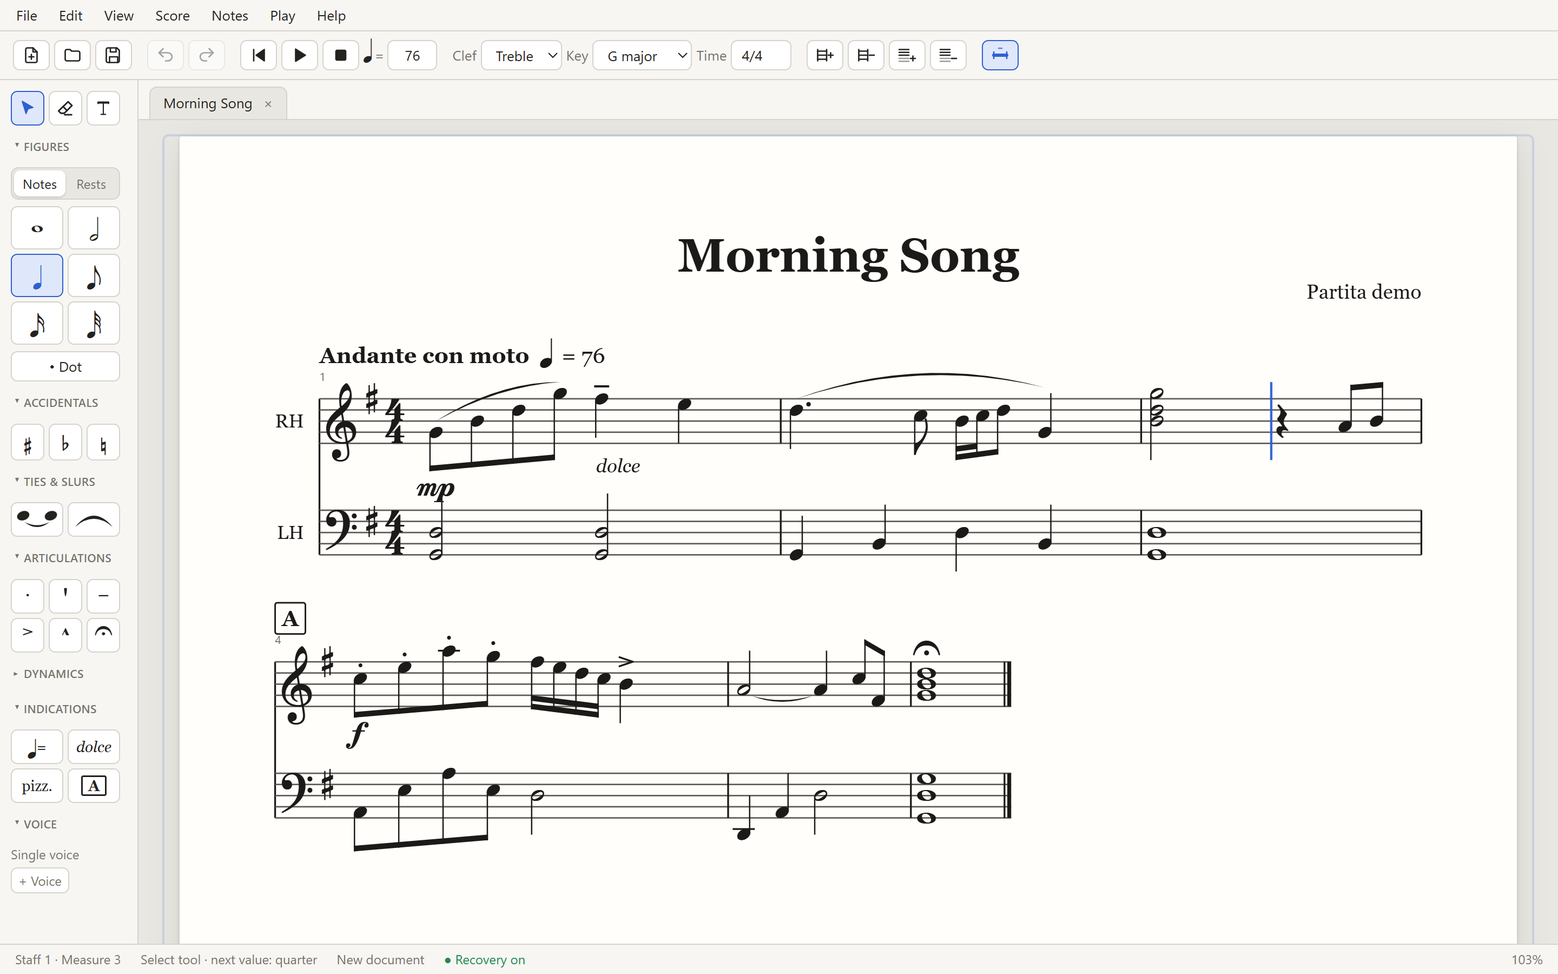
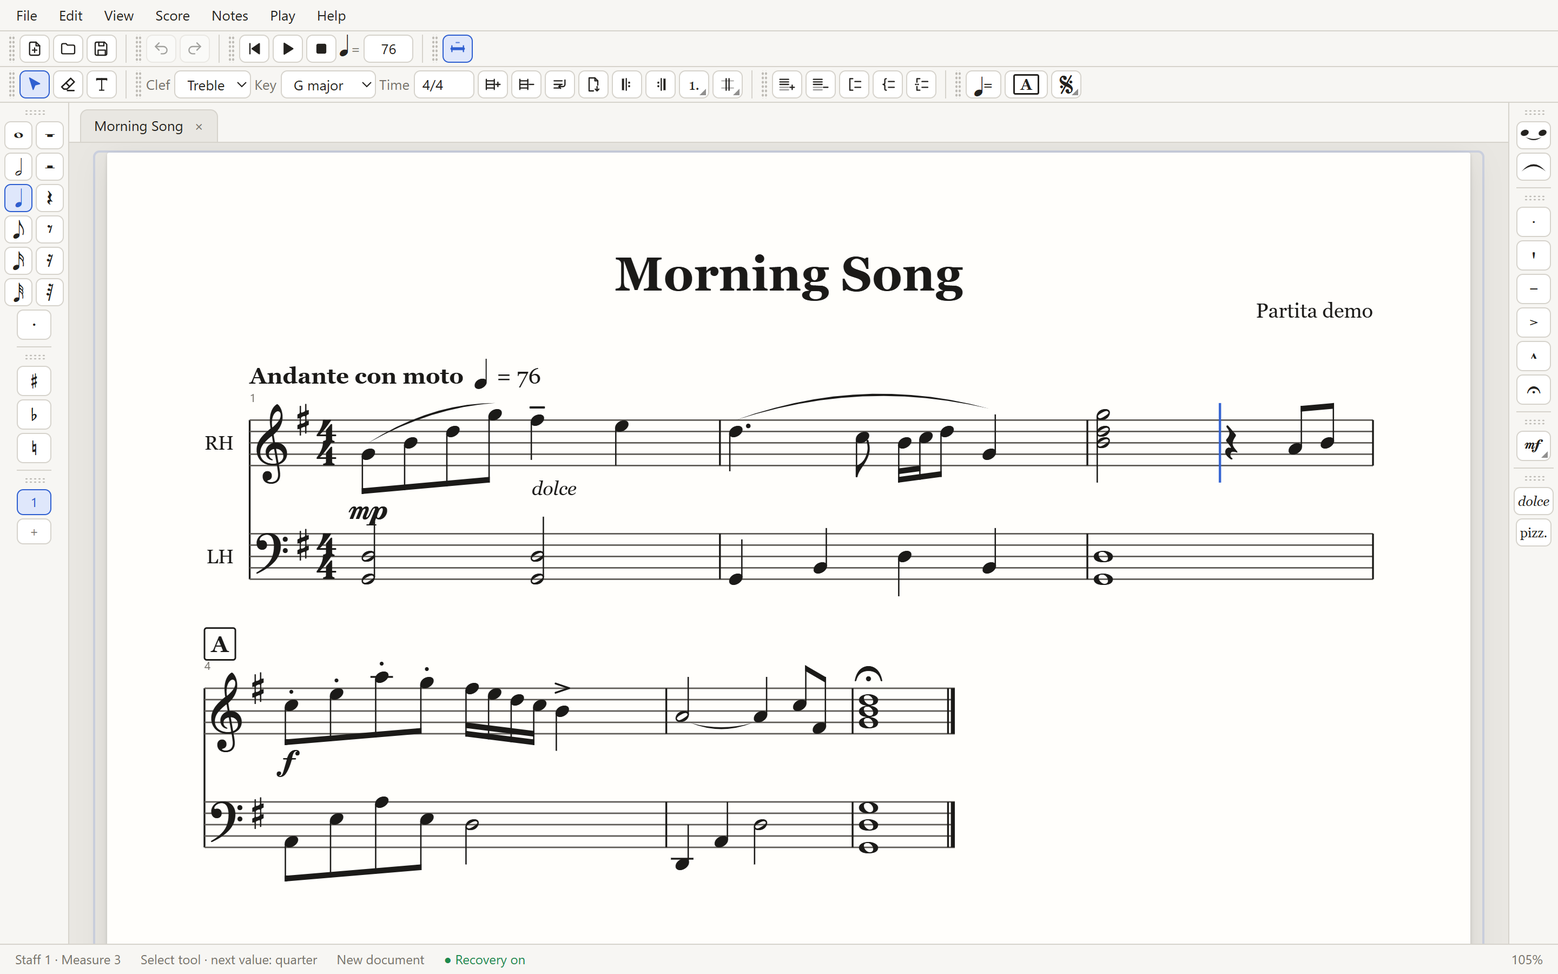
feat: Partita 0.3.14 on the website
- News post (English and Spanish): words, repeats and jumps that play,
  thin toolbars you can arrange, Spanish.
- New guide page "Measures, repeats and jumps": barlines, repeats,
  endings, D.C./D.S./segno/coda/Fine, pickup measures, system and page
  breaks.
- The guide follows the toolbars: the bars around the score instead of
  the palette (Entering music), the Indications and Expressions bars
  (Texts), Score → Staff → Group (Staves), menus (Basics), repeats and
  jumps in Playback.
- Roadmap: structure and toolbars work today. Home: the 0.3.14 card, new
  screenshots and the feature crop moved to fit them.

Changed region(s): [[0.0, 0.0311, 1.0, 0.9956], [0.375, 0.2489, 0.6562, 0.3111], [0.8125, 0.28, 0.9062, 0.3422]]

diff --git a/src/content/docs/guide/entering-music.md b/src/content/docs/guide/entering-music.md
@@ -1,6 +1,6 @@
 ---
 title: Entering music
-description: Place notes with the mouse or type them with the keyboard, drag notes to a new pitch, erase, and use the palette.
+description: Place notes with the mouse or type them with the keyboard, drag notes to a new pitch, erase, and use the bars around the score.
 sidebar:
   order: 2
 ---
@@ -9,9 +9,9 @@ You can enter music with the mouse, with the keyboard, or mixing both.
 
 ## With the mouse
 
-The **palette** on the left holds the tools for entering music.
+The bars **left of the score** hold what you write with; the ones **right of it**, what goes on the notes.
 
-1. Click a figure in the palette. The pointer turns into that figure.
+1. Click a figure (or a rest, beside it) in the **Figures** bar. The pointer turns into that figure.
 2. Move over a staff. The figure snaps to the nearest line or space and shows the pitch name (for example `F♯4`). A dashed line marks where it will be inserted.
 3. Click to place it. Notes you place one after another undo together with a single Ctrl+Z.
 4. Click **on an existing note** (the label shows `+`) to add the pitch to its chord. Clicking on a rest turns it into a note.
@@ -22,26 +22,32 @@ With the **Select** tool, point at a notehead: the pointer becomes a vertical do
 
 ### Erasing
 
-The **eraser** (next to Select, or `X`) turns the pointer into a crosshair. Click a note to erase just that note; in a chord, only the tone you aim at goes. Drag a box to erase everything inside it. The note under the crosshair turns red before you click, and one Ctrl+Z brings back everything erased in one go.
+The **eraser** (in the **Tools** bar, next to Select, or `X`) turns the pointer into a crosshair. Click a note to erase just that note; in a chord, only the tone you aim at goes. Drag a box to erase everything inside it. The note under the crosshair turns red before you click, and one Ctrl+Z brings back everything erased in one go.
 
-## The palette
+## The bars
 
-The palette is grouped into collapsible categories. Click a heading to open or close it; Partita remembers your choice. Hover any button, or reach it with Tab, to see its name, what it does and its keyboard shortcut.
+The tools sit in thin, named bars around the score. Hover any button, or reach it with Tab, to see its name, what it does, its keyboard shortcut and, small in the corner, the bar it belongs to. When a row or column has no room, its last bars go behind **»**.
 
-| Category | Contents |
-|---|---|
-| **Top row** | **Select** (click to place the caret, drag to select), the **eraser** and the **T** tool for [text boxes](/guide/texts/#text-boxes). **Esc**, a right-click or `N` go back to Select. |
-| **Figures** | **Notes \| Rests** switches between notes and their matching rests. **• Dot** makes the figure dotted. **View → Breve and 128th Notes** adds the breve, the 64th and the 128th. |
-| **Accidentals** | ♯ ♭ ♮. The key signature's sharps and flats are applied automatically when you place a note. |
-| **Ties & slurs** | **Tie** (`T`) joins a note to the next one of the same pitch. **Slur** (`S`) draws a phrase mark over the selected notes. |
-| **Articulations** | Staccato, staccatissimo, tenuto, accent, marcato, fermata. The fermata also works on rests. |
-| **Dynamics** | ppp … fff, sfz, fp. Printed below the staff. |
-| **Indications** | Tempo markings, expressions (*dolce*), techniques (*pizz.*) and rehearsal marks. See [Titles, tempo and text](/guide/texts/#words-in-the-music). |
-| **Voice** | **+ Voice** adds an independent line on the same staff, for example divisi strings or two melodies in one hand. Switch voices with its buttons or `Alt+1`…`4`. |
+| Bar | Where | Contents |
+|---|---|---|
+| **Tools** | top, second row | **Select** (click to place the caret, drag to select), the **eraser** and the **T** tool for [text boxes](/guide/texts/#text-boxes). **Esc**, a right-click or `N` go back to Select. |
+| **Figures** | left | Two columns: each note, and beside it its rest. The **dot** below makes the figure dotted. **View → Breve and 128th Notes** adds the breve, the 64th and the 128th. |
+| **Accidentals** | left | ♯ ♭ ♮. The key signature's sharps and flats are applied automatically when you place a note. |
+| **Voice** | left | **1** until you need more; **+** adds an independent line on the same staff, for example divisi strings or two melodies in one hand. Switch voices with its buttons or `Alt+1`…`4`. |
+| **Ties & slurs** | right | **Tie** (`T`) joins a note to the next one of the same pitch. **Slur** (`S`) draws a phrase mark over the selected notes. |
+| **Articulations** | right | Staccato, staccatissimo, tenuto, accent, marcato, fermata. The fermata also works on rests. |
+| **Dynamics** | right | ppp … fff, sfz, fp, behind one button that shows the last one chosen: click it to open all of them. Printed below the staff. |
+| **Expressions** | right | *dolce* and *pizz.*: see [Titles, tempo and text](/guide/texts/#words-in-the-music). |
+
+The rows on top hold **File**, **Edit**, **Playback** and **View**, then **Tools**, **Measure** (see [Measures, repeats and jumps](/guide/structure/)), **Staves** and **Indications**.
+
+### Your own arrangement
+
+Every bar can go where it suits you: drag it by the dotted grip at its start to another place, or onto the dashed strip at the edge of a side to start a new row or column there; **Esc** cancels. **View → Toolbars → Show Bars** hides or shows each one, **Save Layout As…** keeps an arrangement under a name, and **Reset Toolbars** brings back Partita's.
 
 ### Placing marks
 
-**Accidentals, articulations and dynamics** can be placed with the mouse: click the mark in the palette (it stays highlighted and follows the pointer), then click each note it goes on. An accidental clicked on a chord changes only that tone. **Esc**, a right-click or clicking the mark again puts it down.
+**Accidentals, articulations and dynamics** can be placed with the mouse: click the mark (it stays highlighted and follows the pointer), then click each note it goes on. An accidental clicked on a chord changes only that tone. **Esc**, a right-click or clicking the mark again puts it down.
 
 With a selection, a mark goes on every note in the selection at once. From the keyboard, and from the **Notes** menu, marks go on **the note just before the caret**. Choosing a mark a note already has removes it.
 
@@ -64,12 +70,7 @@ With a selection, a mark goes on every note in the selection at once. From the k
 
 ## Score structure
 
-The top toolbar sets the structure of the score:
-
-- **Clef**: clef of the staff containing the caret.
-- **Key** and **Time**: apply from the caret's measure until the next change. For Time, type something like `3/4` and press Enter.
-- **+ Measure / − Measure**: insert after, or delete, the current measure.
-- **+ Staff / − Staff**: add a staff at the bottom, or delete the current staff.
+The **Measure** bar sets the clef, key and time, adds and deletes measures, and holds barlines, repeats, endings and breaks: see [Measures, repeats and jumps](/guide/structure/). The **Staves** bar adds and deletes staves and groups them.
 
 ## Beams
 

diff --git a/src/content/docs/guide/structure.md b/src/content/docs/guide/structure.md
@@ -1,0 +1,55 @@
+---
+title: Measures, repeats and jumps
+description: Barline types, repeats, first and second endings, D.C., D.S., segno, coda and Fine, pickup measures, and system and page breaks.
+sidebar:
+  order: 4
+---
+
+The **Measure** bar on top, and **Score → Measure** in the menu, hold what shapes the measures of a score. Most of it acts on **the caret's measure**, or on the measures of the selection.
+
+## Clef, key, time and measures
+
+- **Clef**: clef of the staff containing the caret.
+- **Key** and **Time**: apply from the caret's measure until the next change. For Time, type something like `3/4` and press Enter.
+- **+ Measure / − Measure**: insert after, or delete, the current measure.
+
+## Barlines
+
+The **Barline** button chooses the line that closes the measure: **single**, **double** (the end of a section), **final** (the end of the piece or a movement) or **dashed** (a subdivision of a long measure). It shows the last kind you chose; click it to choose. The last measure of a score ends with a final barline anyway.
+
+## Repeats
+
+- **Start Repeat** puts a repeat sign at the start of the caret's measure (or the first measure of the selection), **End Repeat** at its end (or the end of the last measure of the selection). Each turns its sign on or off, and shows whether the measure has it.
+- **Score → Measure → Repeat → Repeat Selection** puts both signs around the selected measures.
+- **Times Played** (2 to 6): a passage played more than twice shows ×3, ×4… over its end repeat.
+
+Playback plays the passage again: at an end repeat it goes back to the start repeat, or, when there is none, to the beginning or to just after the previous end repeat. The green playhead goes back with the music.
+
+## First and second endings
+
+The **Ending** button makes the caret's measure, or the selected ones, a **1st**, **2nd** or **3rd** ending, or **1st and 2nd**; **No Ending** removes it. A bracket with the number is drawn over them: closed on the right when the ending goes back to the repeat, open otherwise. Choosing a first ending also puts the end repeat there if it has none.
+
+Each time through the repeat, playback skips the endings that are not for that time: the first time it plays the 1st ending, the second time it goes straight to the 2nd.
+
+## D.C., D.S., segno, coda and Fine
+
+The **Jumps** button of the **Indications** bar (or **Score → Jumps**) puts on the caret's measure:
+
+- at its start, a **segno** 𝄋 (where a D.S. goes back to) or the start of the **coda** 𝄌;
+- at its end, one of *Fine*, *To Coda*, *D.C.*, *D.C. al Fine*, *D.C. al Coda*, *D.S.*, *D.S. al Fine* or *D.S. al Coda*.
+
+Choosing the one already there takes it away; **No Jump** removes it. Playback follows them: a D.C. goes back to the beginning and a D.S. to the segno, once each. After the jump, repeats are not taken again and only the last ending plays; *al Fine* stops at Fine, *al Coda* goes on from To Coda to the coda.
+
+## Pickup measures
+
+**Score → Measure → Length…** says how long the caret's measure really is, in steps of half a beat, up to the whole measure. It proposes what the measure holds now.
+
+A shorter **first** measure is a **pickup** (anacrusis): it is not numbered, the next one is measure 1, and the status bar says *Pickup*. A shorter measure at the end usually completes it. Playback and the check for measures with too many beats use the real length.
+
+## System and page breaks
+
+**System Break** ends the line of music after the caret's measure; **Page Break** ends the page there (in page view; in wrap view it ends the line). The same button again takes it away. A ↵ or ⇟ beside the line shows where a break is while you edit; it is never printed. The continuous view has no lines and ignores them.
+
+## In other programs
+
+MusicXML keeps barlines, repeats, endings, jumps and pickups. System and page breaks are kept in Partita's own files; the line breaks in files from other programs are left out, so the music flows freely.

diff --git a/src/content/docs/es/news/partita-0-3-14.md b/src/content/docs/es/news/partita-0-3-14.md
@@ -1,0 +1,40 @@
+---
+title: "Partita 0.3.14: palabras, repeticiones y espacio para la música"
+date: 2026-11-18
+authors: team
+excerpt: Títulos, indicaciones de tempo y texto en cualquier parte de la página; repeticiones, casillas, D.C. y D.S. que se tocan; barras de herramientas delgadas que puedes ordenar a tu gusto; y la aplicación entera en español.
+tags:
+  - versión
+---
+
+Partita 0.3.14 es un gran paso entre la 0.3 y la 0.4: una partitura puede llevar ahora todas las palabras que necesita, sus repeticiones y saltos se tocan como están escritos, y las herramientas se apartaron para dejarle sitio a la música. Descárgala desde la [página de descarga](/es/download/), o deja que tu copia instalada se actualice sola.
+
+## Cada palabra en su sitio
+
+- **Títulos, encabezado y pie de página**: subtítulo, letrista o arreglista, dedicatoria, parte y copyright en la página 1, un encabezado, un pie de página y la numeración, con `{page}`, `{pages}`, `{title}` y `{composer}` completados en cada página. Haz clic en cualquiera de ellos en la página para cambiarlo.
+- **Indicaciones de tempo** como *Andante con moto ♩ = 76*, impresas u ocultas, y cambios de tempo más adelante en la obra que la reproducción respeta.
+- **Palabras en la música**: expresiones (*dolce*), técnicas (*pizz.*) y letras de ensayo.
+- **Cuadros de texto** en cualquier parte de la página, con la herramienta **T**.
+- **Estilos de texto**: la fuente, el tamaño, la negrita y la cursiva de cada tipo de texto.
+
+## Repeticiones y saltos que se tocan
+
+- **Barras de compás**: doble, final y discontinua.
+- **Repeticiones**, tocadas tantas veces como indiquen, y **casillas de 1ª y 2ª vez**, cada una en su vuelta.
+- **D.C., D.S., segno, coda y Fine**, con *al Fine* y *al Coda*. El cursor de reproducción vuelve con la música.
+- **Compases de anacrusa**: un primer compás más corto no se numera, y el siguiente es el compás 1.
+- **Saltos de sistema y de página** donde quieras que termine la línea o la página.
+
+## Espacio para la música
+
+La paleta desapareció. Las herramientas están en **barras delgadas con nombre** alrededor de la partitura: lo que usas para escribir a la izquierda, lo que va sobre las notas a la derecha, y el resto en dos filas arriba. Cada barra se puede mover: arrástrala a cualquier lado de la partitura, o abre para ella una fila o columna nueva. **Ver → Barras de herramientas** oculta las que no necesitas y guarda tus distribuciones; **Restablecer barras** devuelve la de Partita.
+
+## Además
+
+- **Español**: toda la interfaz está traducida. **Ver → Idioma** elige English, Español o el idioma de tu computadora.
+- **Los menús** están organizados por categorías con submenús, cada opción en una línea y con su tooltip.
+- **Un pentagrama puede convertirse en doble pentagrama**: elige un piano para él y se agrega el pentagrama de fa debajo.
+
+Todo está descrito en la [guía de uso](/guide/structure/) (en inglés), y la lista completa de cambios en el [changelog](https://github.com/partita-notation/partita/blob/main/CHANGELOG.md).
+
+**Sobre la compatibilidad:** las partituras que usan algo nuevo de esta versión se guardan en el formato de archivo 7, que Partita 0.3.0 no puede abrir; las demás se guardan como antes. El trabajo sin guardar de la 0.3.0 se recupera después de actualizar, como siempre.

diff --git a/src/content/docs/guide/texts.md b/src/content/docs/guide/texts.md
@@ -2,7 +2,7 @@
 title: Titles, tempo and text
 description: Title, composer, header, footer and page numbers; tempo markings; expressions, techniques and rehearsal marks; free text boxes; and the font and size of every kind of text.
 sidebar:
-  order: 5
+  order: 6
 ---
 
 Every text in a score is part of the score: it prints as shown, it is saved in the file, and every change can be undone with Ctrl+Z. **Click any text on the page to change it there.** Type, then press **Enter** (or click elsewhere) to keep it, or **Esc** to leave it as it was.
@@ -21,7 +21,7 @@ An empty title or composer shows a grey hint where it goes. Hints are never prin
 
 ## Tempo markings
 
-**Score → Tempo Marking…**, or the **♩=** button in the palette, puts a marking such as **Andante con moto ♩ = 76** at the start of the caret's measure. Suggestions such as *Allegro* or *a tempo* appear as you type. The metronome mark can count quarters, eighths, halves or dotted values: ♩. = 60 in 6/8 is the same speed as ♩ = 90. Click a printed marking to change or remove it.
+**Score → Tempo Marking…**, or the **♩=** button of the **Indications** bar, puts a marking such as **Andante con moto ♩ = 76** at the start of the caret's measure. Suggestions such as *Allegro* or *a tempo* appear as you type. The metronome mark can count quarters, eighths, halves or dotted values: ♩. = 60 in 6/8 is the same speed as ♩ = 90. Click a printed marking to change or remove it.
 
 - **What prints and what plays are separate.** *Printed* chooses the words and the metronome mark, the words only, the metronome mark only, or nothing. A hidden marking still sets the tempo.
 - **Tempo changes.** A marking later in the piece with *Changes the tempo from this measure* plays at its new tempo from there on. Without it, only the words are printed (*a tempo*, *più mosso*) and the tempo stays as it was.
@@ -29,7 +29,7 @@ An empty title or composer shows a grey hint where it goes. Hints are never prin
 
 ## Words in the music
 
-The **Indications** section of the palette has the tempo marking and three more buttons. They are in the **Notes** and **Score** menus too.
+The **Indications** bar on top has the tempo marking and the rehearsal mark; the **Expressions** bar, right of the score, has the expression and the technique. They are in the **Notes** and **Score** menus too.
 
 | Button | What it adds |
 |---|---|
@@ -41,7 +41,7 @@ A grey hint shows where the words go: type over it and press **Enter**. Words on
 
 ## Text boxes
 
-The **T** tool in the palette (or **Score → Text Box**) writes anywhere on a page: click where the text should start and type. **Shift+Enter** starts a new line.
+The **T** tool of the **Tools** bar (or **Score → Text Box**) writes anywhere on a page: click where the text should start and type. **Shift+Enter** starts a new line.
 
 - A text box stays where you put it on its page, whatever the music does. That is why boxes are only shown in page view.
 - **Drag** a box to move it; **click** it to change it.

diff --git a/src/content/docs/news/partita-0-3-14.md b/src/content/docs/news/partita-0-3-14.md
@@ -1,0 +1,40 @@
+---
+title: "Partita 0.3.14: words, repeats and room for the music"
+date: 2026-11-18
+authors: team
+excerpt: Titles, tempo markings and text anywhere on the page; repeats, endings, D.C. and D.S. that play; thin toolbars you can arrange as you like; and the whole app in Spanish.
+tags:
+  - release
+---
+
+Partita 0.3.14 is a big step between 0.3 and 0.4: a score can now carry every word it needs, its repeats and jumps play the way they are written, and the tools have moved out of the way of the music. Get it from the [download page](/download/), or let your installed copy update itself.
+
+## Every word in its place
+
+- **Titles, header and footer**: subtitle, lyricist or arranger, dedication, part and copyright on page 1, a running header, a footer and page numbers, with `{page}`, `{pages}`, `{title}` and `{composer}` filled in for each page. Click any of them on the page to change it.
+- **Tempo markings** such as *Andante con moto ♩ = 76*, printed or hidden, and tempo changes later in the piece that playback follows.
+- **Words in the music**: expressions (*dolce*), techniques (*pizz.*) and rehearsal marks.
+- **Text boxes** anywhere on a page, with the **T** tool.
+- **Text styles**: the font, size, bold and italic of every kind of text.
+
+## Repeats and jumps that play
+
+- **Barlines**: double, final and dashed.
+- **Repeats**, played as many times as they say, and **first and second endings**, each played on its own time through.
+- **D.C., D.S., segno, coda and Fine**, with *al Fine* and *al Coda*. The playhead goes back with the music.
+- **Pickup measures**: a short first measure is not numbered, and the next one is measure 1.
+- **System and page breaks** where you want the line or the page to end.
+
+## Room for the music
+
+The palette is gone. The tools sit in **thin, named bars** around the score: what you write with on the left, what goes on the notes on the right, the rest in two rows on top. Every bar can be moved: drag it anywhere around the score, or start a new row or column for it. **View → Toolbars** hides the ones you do not need and saves your arrangements as layouts; **Reset Toolbars** brings back Partita's.
+
+## Also new
+
+- **Spanish**: the whole interface is translated. **View → Language** chooses English, Español or your computer's language.
+- **The menus** are organized in categories with submenus, every item on one line, and a tooltip on each.
+- **A staff can become a grand staff**: choose a piano for it, and the bass staff is added below.
+
+Everything is described in the [user guide](/guide/structure/), and the full list of changes is in the [changelog](https://github.com/partita-notation/partita/blob/main/CHANGELOG.md).
+
+**A note on compatibility:** scores that use anything new in this version are saved as file format 7, which Partita 0.3.0 can't open; other scores are saved as before. Unsaved work from 0.3.0 is brought back after the update, as always.

diff --git a/src/content/docs/guide/basics.md b/src/content/docs/guide/basics.md
@@ -25,8 +25,8 @@ The tab of a document with unsaved changes shows a dot (●). Closing it asks wh
 |---|---|
 | **File** | New, open, save, import and export, print. |
 | **Edit** | Undo, redo, cut, copy, paste, select all. |
-| **View** | Layout, zoom, paper, theme and language. |
-| **Score** | Measures, staves and their groups; titles, tempo markings, rehearsal marks, text boxes and text styles. |
+| **View** | Layout, zoom, paper, toolbars and their layouts, theme and language. |
+| **Score** | Measures (barlines, repeats, endings, length, breaks), staves and their groups; titles, tempo markings, rehearsal marks, jumps, text boxes and text styles. |
 | **Notes** | Ties, slurs, lyrics, expressions and techniques; accidentals, articulations and dynamics. |
 | **Play** | Play, pause and stop. |
 | **Help** | Shortcuts, what's new, updates and credits. |

diff --git a/src/content/docs/guide/playback.md b/src/content/docs/guide/playback.md
@@ -2,7 +2,7 @@
 title: Playback
 description: Listen to your score, set the tempo and learn how the music is played.
 sidebar:
-  order: 7
+  order: 8
 ---
 
 | Control | Action |
@@ -17,6 +17,10 @@ A green line follows the music, and the view scrolls to keep it in sight. Notes 
 ## Tempo changes
 
 A [tempo marking](/guide/texts/#tempo-markings) later in the piece can change the tempo from its measure on, and playback follows it. A marking can be hidden and still set the tempo. Gradual changes (*rit.*, *accel.*) are not played yet.
+
+## Repeats and jumps
+
+Repeats are played, each ending on its own time through, and D.C., D.S., *Fine* and *To Coda* are followed; the playhead goes back with the music. See [Measures, repeats and jumps](/guide/structure/).
 
 ## Sounds
 

diff --git a/src/content/docs/project/roadmap.md b/src/content/docs/project/roadmap.md
@@ -29,6 +29,9 @@ Partita is in early development. This page summarizes the plan; the detailed, al
 - Several documents open at once, in tabs.
 - Crash recovery that brings back unsaved work and its undo history.
 - English and Spanish interface.
+- Barline types, repeats, first and second endings, D.C., D.S., segno, coda and Fine, all followed by playback.
+- Pickup measures, and system and page breaks.
+- Thin, named toolbars around the score that can be moved anywhere, hidden, and saved as layouts.
 
 ## Coming next
 

diff --git a/src/content/docs/guide/lyrics.md b/src/content/docs/guide/lyrics.md
@@ -2,7 +2,7 @@
 title: Lyrics
 description: Write words under the notes, syllable by syllable, in up to eight verses.
 sidebar:
-  order: 6
+  order: 7
 ---
 
 Lyrics are written **under the notes**, one syllable per note, so they move, copy and paste with the music.

diff --git a/src/content/docs/guide/shortcuts.md b/src/content/docs/guide/shortcuts.md
@@ -2,7 +2,7 @@
 title: Keyboard shortcuts
 description: Every Partita keyboard shortcut on one page.
 sidebar:
-  order: 8
+  order: 9
 ---
 
 In the app, **Help → Keyboard Shortcuts** (F1) shows this list too.
